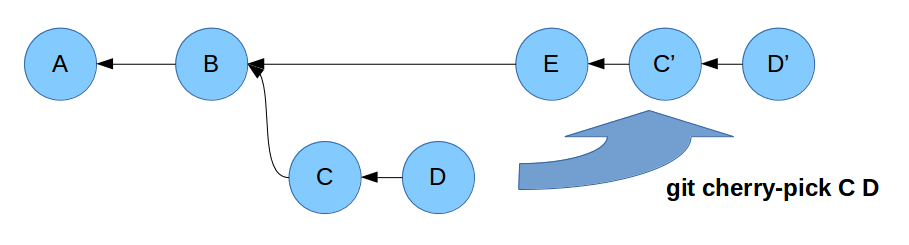
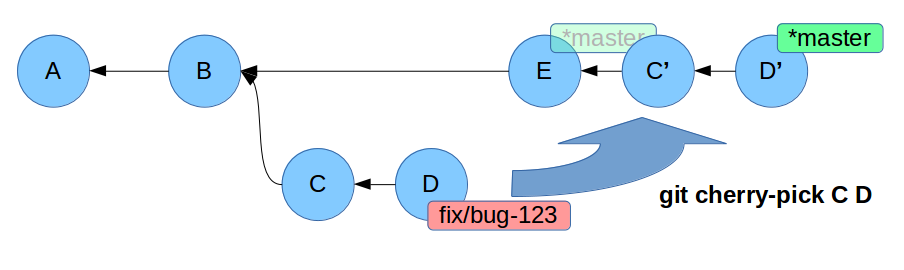
improve rebase and cherry-pick images

Changed region(s): [[0.0, 0.0571, 0.9912, 0.8857]]

diff --git a/git-crash-course.md b/git-crash-course.md
@@ -757,6 +757,7 @@ Vedere anche: https://stackoverflow.com/questions/7251477/what-are-the-differenc
 
 ## Rimettere insieme i pezzi: cherry-pick
 
+    $ git checkout master
     $ git cherry-pick <commit>
     $ # in caso di conflitti:
     $ git cherry-pick --continue
